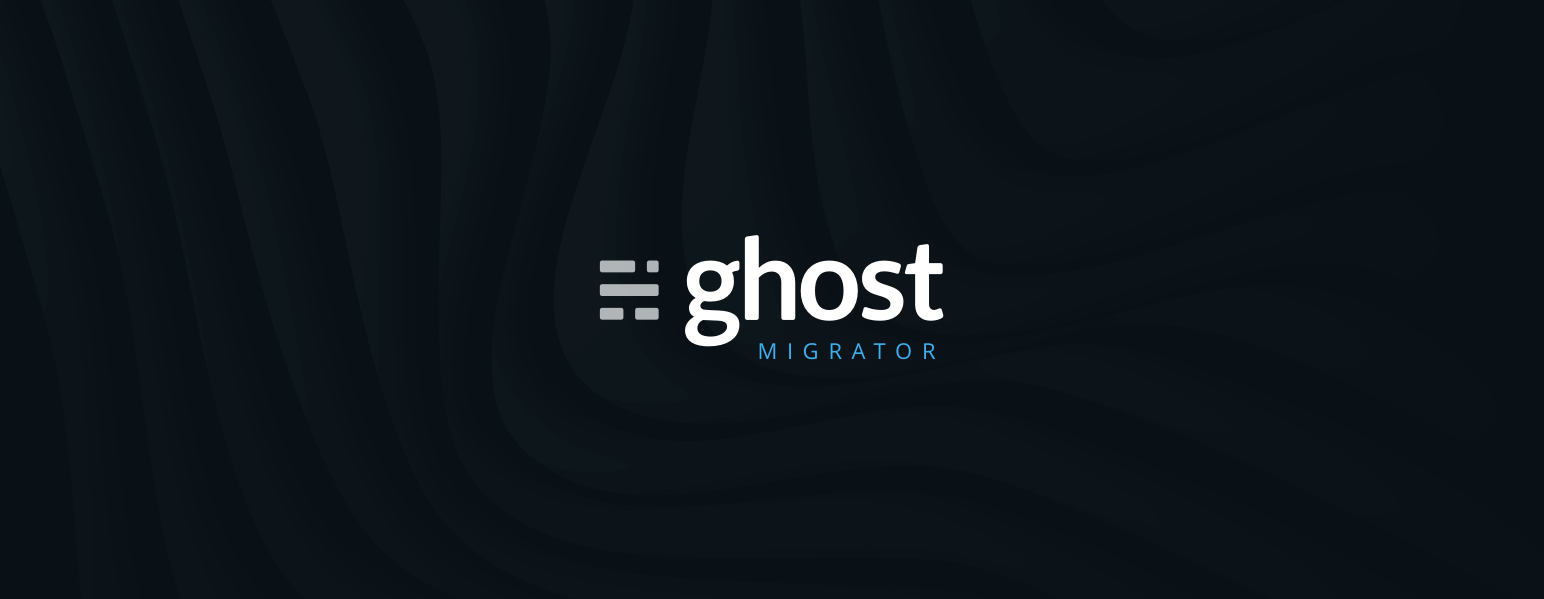
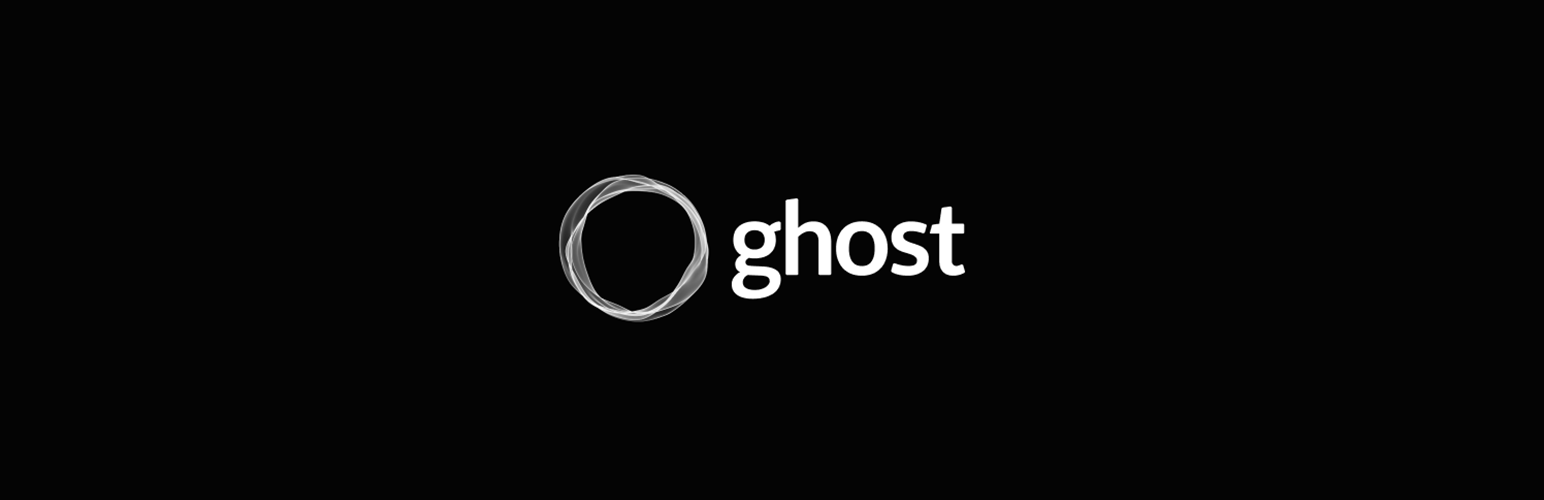
Tested up to WordPress 5.7.0
Also added new Ghost brand components

Changed region(s): [[0.342, 0.33, 0.6218, 0.66]]

diff --git a/css/admin.css b/css/admin.css
@@ -24,11 +24,12 @@
 }
 
 #icon-ghost {
-	background: transparent url(../assets/icon.svg) no-repeat center center;
+	background: transparent url(../assets/logo.png) no-repeat center center;
 	background-size: contain;
 	width: 64px;
 	height: 64px;
 	margin-top: 20px;
+	border-radius: 32px;
 }
 
 #ghost-diagnostics p {

diff --git a/class-ghost.php b/class-ghost.php
@@ -25,7 +25,7 @@ class Ghost {
 	 *
 	 * @var	 string
 	 */
-	protected $version = '1.0.1';
+	protected $version = '1.0.2';
 
 	/**
 	 * Unique identifier for your plugin.
